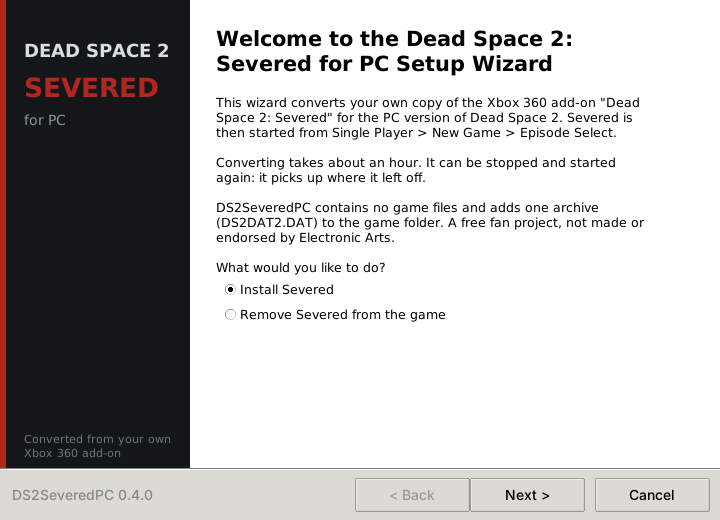
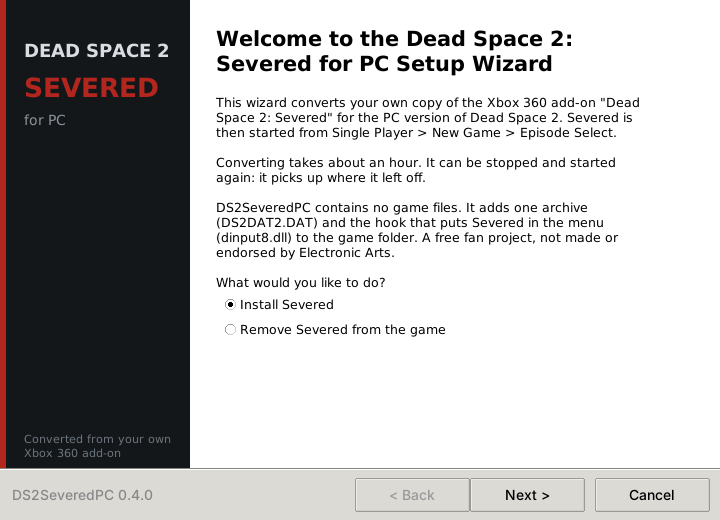
App: install and remove the hook dinput8.dll itself, keep the button bar visible while converting
The app carries the hook, copies it next to deadspace2.exe after the
conversion and removes it on uninstall. Another mod's dinput8.dll is set
aside as dinput8.dll.other and put back. The self-test checks the hook is
packed. README and screenshots updated.

Changed region(s): [[0.3056, 0.3692, 0.8861, 0.6462]]

diff --git a/tools/app/severed_installer.py b/tools/app/severed_installer.py
@@ -5,7 +5,9 @@ Pages: Welcome (install or remove), Locations (the Severed add-on, the
 Dead Space 2 folder; ffmpeg only when it is not bundled), Ready, Installing
 (progress and the converter's log in a terminal box), Finish. Temporary
 files go to severed_work next to the program and are deleted at the end
-(kept when setup stops, so a new run picks up where it left off).
+(kept when setup stops, so a new run picks up where it left off). The app
+also installs and removes the hook dinput8.dll it carries, so nothing is
+copied by hand; another mod's dinput8.dll is set aside and put back.
 
     py -3 severed_installer.py              the wizard
     py -3 severed_installer.py --selftest   checks a built app carries all its parts
@@ -38,6 +40,9 @@ WIN = sys.platform == 'win32'
 FONT = 'Segoe UI' if WIN else 'DejaVu Sans'
 MONO = 'Consolas' if WIN else 'DejaVu Sans Mono'
 BANNER_BG, BANNER_FG, ACCENT = '#14171a', '#d8dde2', '#b3261e'
+HOOK = 'dinput8.dll'
+HOOK_BACKUP = 'dinput8.dll.other'               # another mod's dinput8.dll, put back on removal
+HOOK_TAGS = (b'severed_probe.log',)             # text only our hook carries
 
 
 def bundled_ffmpeg():
@@ -45,6 +50,48 @@ def bundled_ffmpeg():
         if os.path.isfile(p):
             return p
     return shutil.which('ffmpeg')
+
+
+def bundled_hook():
+    base = getattr(sys, '_MEIPASS', None)
+    p = (os.path.join(base, 'hook', HOOK) if base
+         else os.path.join(HERE, '..', 'probe', 'bin', HOOK))
+    return p if os.path.isfile(p) else None
+
+
+def is_our_hook(p):
+    try:
+        with open(p, 'rb') as f:
+            data = f.read()
+    except OSError:
+        return False
+    return any(t in data for t in HOOK_TAGS)
+
+
+def install_hook(game, log):
+    """copies the hook next to deadspace2.exe, setting another mod's aside"""
+    src = bundled_hook()
+    if not src:
+        raise SystemExit('The app is missing its %s: download it again.' % HOOK)
+    dst, bak = os.path.join(game, HOOK), os.path.join(game, HOOK_BACKUP)
+    if os.path.exists(dst) and not is_our_hook(dst):
+        if os.path.exists(bak):
+            raise SystemExit('%s belongs to another mod and %s is already taken: move one of them '
+                             'out of the game folder and run the app again.' % (dst, bak))
+        os.replace(dst, bak)
+        log('Another mod\'s %s set aside as %s (put back when Severed is removed)' % (HOOK, bak))
+    shutil.copyfile(src, dst)
+    log('Installed', dst)
+
+
+def remove_hook(game, log):
+    dst, bak = os.path.join(game, HOOK), os.path.join(game, HOOK_BACKUP)
+    if os.path.exists(dst) and is_our_hook(dst):
+        os.remove(dst)
+        log('Removed', dst)
+    if os.path.exists(bak) and not os.path.exists(dst):
+        os.replace(bak, dst)
+        log('Put the other mod\'s %s back' % HOOK)
 
 
 def free_gb(path):
@@ -209,8 +256,8 @@ class Wizard:
             'Single Player > New Game > Episode Select.\n\n'
             'Converting takes about an hour. It can be stopped and started again: it '
             'picks up where it left off.\n\n'
-            'DS2SeveredPC contains no game files and adds one archive (DS2DAT2.DAT) to the '
-            'game folder. A free fan project, not made or endorsed by Electronic Arts.\n\n'
+            'DS2SeveredPC contains no game files. It adds one archive (DS2DAT2.DAT) and the '
+            'hook that puts Severed in the menu (dinput8.dll) to the game folder. A free fan project, not made or endorsed by Electronic Arts.\n\n'
             'What would you like to do?')).pack(anchor='w')
         for v, t in (('install', 'Install Severed'), ('remove', 'Remove Severed from the game')):
             ttk.Radiobutton(f, text=t, value=v, variable=self.mode, style='White.TRadiobutton').pack(
@@ -272,7 +319,7 @@ class Wizard:
         self.bar.start(15)
         frame = tk.Frame(f, bg='#0c0c0c', bd=1, relief='sunken')
         frame.pack(fill='both', expand=True)
-        self.term = tk.Text(frame, bg='#0c0c0c', fg='#cccccc', insertbackground='#cccccc', font=(MONO, 9),
+        self.term = tk.Text(frame, height=10, bg='#0c0c0c', fg='#cccccc', insertbackground='#cccccc', font=(MONO, 9),
                             wrap='none', relief='flat', padx=6, pady=4, state='disabled')
         sb = ttk.Scrollbar(frame, command=self.term.yview)
         self.term.config(yscrollcommand=sb.set)
@@ -392,6 +439,12 @@ class Wizard:
         try:
             import make_severed_test
             make_severed_test.main()
+            game = args[args.index('--game') + 1]
+            if '--remove' in args:
+                remove_hook(game, make_severed_test.log)
+            else:
+                make_severed_test.log('Installing the hook that adds Severed to the episode select')
+                install_hook(game, make_severed_test.log)
         except SystemExit as e:
             if e.code not in (None, 0):
                 ok, msg = False, str(e.code)
@@ -447,8 +500,10 @@ def selftest():
     if ff:
         r = subprocess.run([ff, '-hide_banner', '-decoders'], capture_output=True, text=True)
         ffv = 'xma2 decoder ' + ('present' if ' xma2 ' in r.stdout else 'MISSING')
-    msg = ('selftest ok: %d data files, %d expected add-on files, native library loaded, ffmpeg %s'
-           % (len(names), len(addoncheck.expected()), ffv))
+    hook = bundled_hook()
+    hv = 'present' if hook and is_our_hook(hook) else 'MISSING'
+    msg = ('selftest ok: %d data files, %d expected add-on files, native library loaded, ffmpeg %s, hook %s'
+           % (len(names), len(addoncheck.expected()), ffv, hv))
     with open(os.path.join(APP_DIR, 'selftest.txt'), 'w') as f:
         f.write(msg + '\n')
     if sys.stdout:

diff --git a/README.md b/README.md
@@ -258,16 +258,16 @@ How it works:
 
    <p align="center"><img src="docs/img/install/install_5_finish.png" alt="Finish page" width="540"></p>
 
-6. Copy `tools\probe\bin\dinput8.dll` from this repository into the Dead
-   Space 2 folder, next to `deadspace2.exe`. It adds Severed to the episode
-   select. If a `dinput8.dll` from another mod is already there, move it
-   somewhere safe first.
-7. Start the game as normal. Go to **Single Player > New Game > Episode
+6. Start the game as normal. Go to **Single Player > New Game > Episode
    Select** and pick **Dead Space 2: Severed**.
 
-The app only adds two files to the game folder: the archive `DS2DAT2.DAT`
-and its marker file `DS2DAT2.DAT.severed`. Keep the marker: the app uses it
-to update or remove the archive later.
+The app adds three files to the game folder:
+- the archive `DS2DAT2.DAT`, which holds the converted DLC;
+- its marker file `DS2DAT2.DAT.severed`. Keep it: the app uses it to update
+  or remove the archive later;
+- the hook `dinput8.dll`, which adds Severed to the episode select. If
+  another mod's `dinput8.dll` is already there, the app renames it to
+  `dinput8.dll.other` and puts it back when you remove Severed.
 
 > If Gabe's RIG call scene doesn't hand control back, press **F8**. This
 > sends the scene's own "finished" message, and you get the normal camera,
@@ -300,12 +300,12 @@ to update or remove the archive later.
 
    <p align="center"><img src="docs/img/install/remove_5_finish.png" alt="Severed is removed" width="540"></p>
 
-5. Delete `dinput8.dll` from the Dead Space 2 folder (and put back any
-   `dinput8.dll` from another mod you moved away).
-
-Your game is back to normal. The app only deletes an archive it created
-itself: it checks for the marker file `DS2DAT2.DAT.severed` first (older
-test builds named it `.severedtest`, which the app recognises too).
+Your game is back to normal. The app removes the archive, its marker and the
+hook `dinput8.dll`, and puts back another mod's `dinput8.dll` if it set one
+aside. It only deletes files it created itself: it checks for the marker
+file `DS2DAT2.DAT.severed` first (older test builds named it `.severedtest`,
+which the app recognises too), and only removes a `dinput8.dll` that is its
+own hook.
 
 ```text
 ================================================================================
@@ -366,7 +366,8 @@ drive the app runs from. Move the app folder to a drive with more space.
 The full source is `tools/probe/probe.c`.
 
 **Severed isn't in the episode list**: check that `dinput8.dll` is next to
-`deadspace2.exe`, and that `DS2DAT2.DAT` exists in the game folder.
+`deadspace2.exe`, and that `DS2DAT2.DAT` exists in the game folder. If
+either is missing, run the app's install again.
 
 ```text
 ================================================================================

diff --git a/docs/PROGRESS.md b/docs/PROGRESS.md
@@ -241,19 +241,16 @@ release).
   `Make-SeveredTest.bat`.
 
 - **The app installs `dinput8.dll` itself (all-in-one, decided by the
-  user).** Users should not copy any file by hand. The release app carries
-  the release `dinput8.dll` (the hook, not the test probe), copies it next to
-  `deadspace2.exe` on install, and deletes it on removal. If another mod's
-  `dinput8.dll` is already there, the app sets it aside and puts it back on
-  removal. Then drop the manual copy step from the README's Installation
-  and Uninstallation sections ([SV03], [SV04]).
-
-- **App: the Installing/Removing page hides the button bar.** The log box
-  (a `tk.Text` with its default 24-line height) pushes the bottom bar, and
-  its Cancel button, out of the 720x520 window. Seen in the README
-  screenshots (`docs/img/install/install_4_installing.png`). Fix: give the
-  log box a small height (it still expands) or pack the bar before the
-  body. Refresh those screenshots after.
+  user): done.** The app carries the hook (`_internal/hook/dinput8.dll`),
+  copies it next to `deadspace2.exe` after the conversion and deletes it on
+  removal. Another mod's `dinput8.dll` is renamed to `dinput8.dll.other`
+  and put back on removal. Our hook is recognised by the text
+  `severed_probe.log` inside it (`HOOK_TAGS`). The app's `--selftest` checks
+  the hook is there. For now it carries the test probe; when the release
+  hook replaces it, add a text it carries to `HOOK_TAGS`.
+- **App: the Installing/Removing page hid the button bar: fixed.** The log
+  box now starts 10 lines high (it still grows with the window), so the
+  bar and its Cancel button stay visible. Screenshots retaken.
 
 - **Check the user's add-on before converting.** People's copies can have
   any file name, so the app identifies the add-on by its contents, not its
